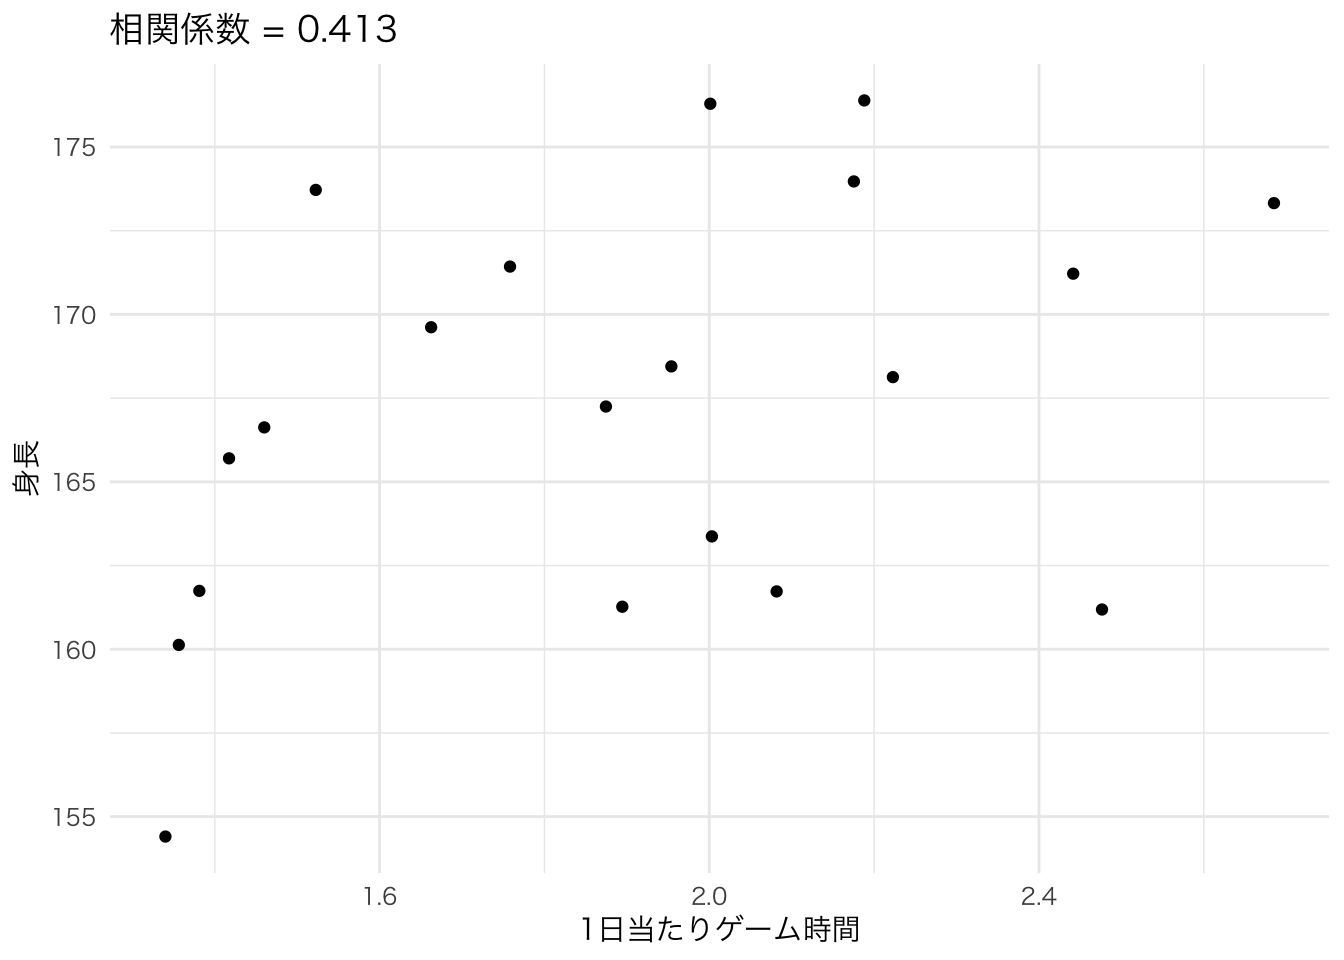
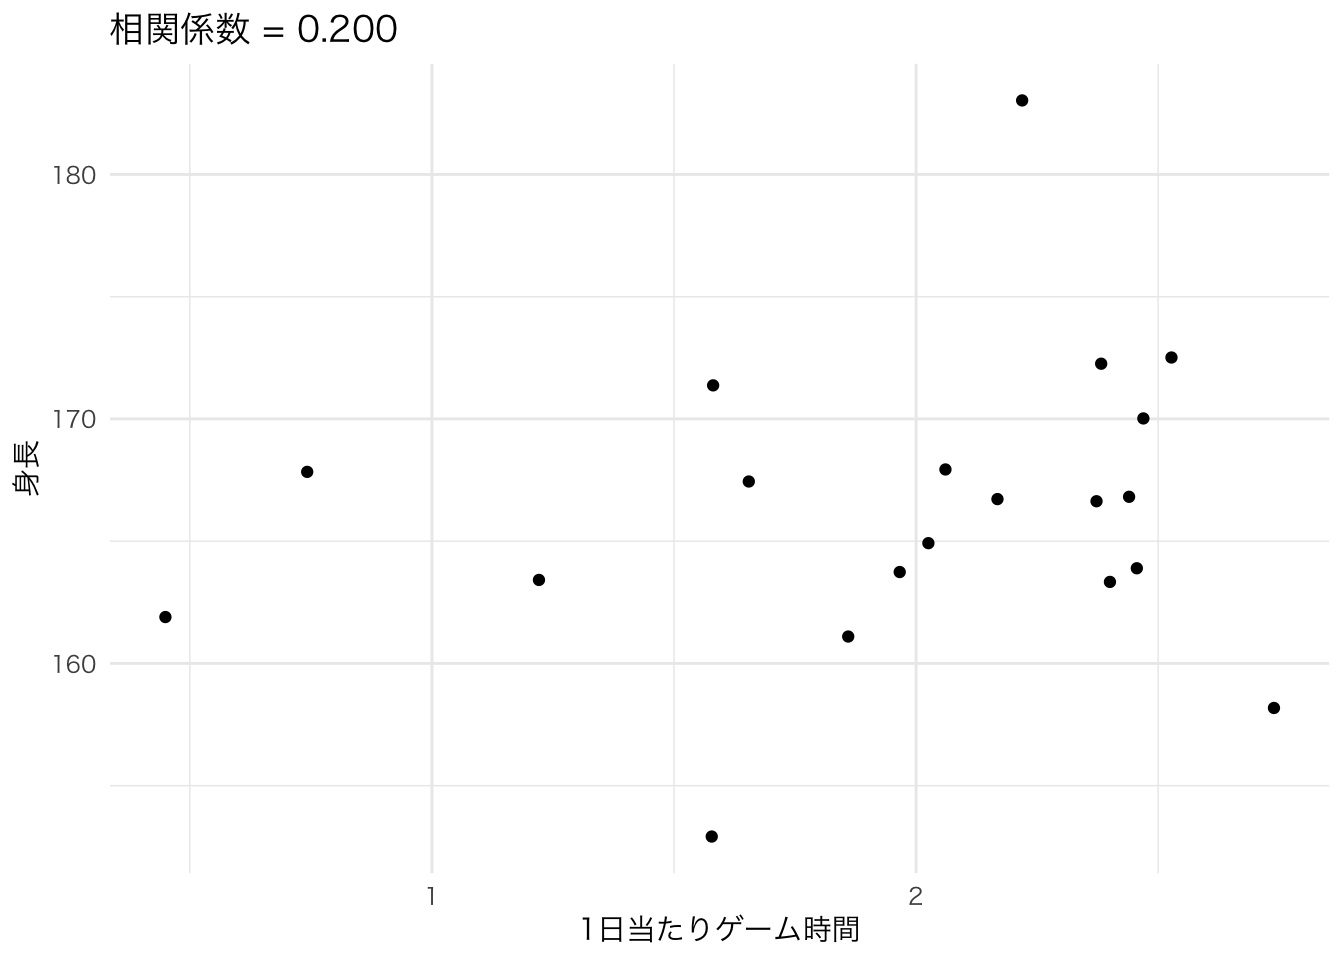
no message

diff --git a/oop.html b/oop.html
@@ -693,7 +693,7 @@ code span.wa { color: #60a0b0; font-weight: bold; font-style: italic; } /* Warni
 ##        10 character character</code></pre>
 <p>データの中身は変わっていませんが、<code>summary()</code>関数の動き方が変わりました。このように、Rで頻繁に使う<code>summary()</code>、<code>print()</code>、<code>plot()</code>などの関数は様々なクラスの対応しております。<code>lm()</code>関数を使った回帰分析の結果オブジェクトのクラス名は<code>lm</code>であり、その結果を見るためにも<code>summary()</code>関数を使います。他にも<code>plot(lmオブジェクト名)</code>をすると回帰診断の図が表示されます。これができないと、各クラスに応じた関数を作成する必要がありますね。numeric型専用の<code>numeric_print()</code>、character型専用の<code>character_print()</code>、lm型専用の<code>lm_plot()</code>など…、覚えなきゃいけない関数が増えてきます。ユーザー側でも大変ですが、コードを作成する側も大変です。実際、下の図<a href="#fn1" class="footnote-ref" id="fnref1"><sup>1</sup></a>を見ると、プログラマーにとって最も大変な仕事は「名付け」であることが分かります。</p>
 <p><img src="https://images.techhive.com/images/idge/imported/article/itw/2013/10/23/programmers_hardest_tasks-600x700-100521914-orig.jpg" style="display: block; margin: auto;" /></p>
-<p>OOPの多態性にはこのような煩わしい仕事を軽減する機能があります。OOPにはここで紹介した多態性以外にも、「<strong>継承</strong> (inheritance)」、「<strong>カプセル化</strong> (encapsulation)」のような特徴があります。他にも人によっては「メッセージパッシング (message passing)」、「動的バインディング (dynamic binding)」などの特徴を述べたりしますが、詳しい話は専門書に譲り合いと思います。また、ここではRのS3クラスについて解説しますが、S3はカプセル化に対応しておりません。したがって、ここでは以下の概念について例と一緒に解説していきたいと思います。</p>
+<p>OOPの多態性にはこのような煩わしい仕事を軽減する機能があります。OOPにはここで紹介した多態性以外にも、「<strong>継承</strong> (inheritance)」、「<strong>カプセル化</strong> (encapsulation)」のような特徴があります。他にも人によっては「メッセージパッシング (message passing)」、「動的バインディング (dynamic binding)」などの特徴を述べたりしますが、詳しい話は専門書に譲りたいと思います。また、ここではRのS3クラスについて解説しますが、S3はカプセル化に対応しておりません。したがって、ここでは以下の概念について例と一緒に解説していきたいと思います。</p>
 <ol style="list-style-type: decimal">
 <li>オブジェクト (object)</li>
 <li>クラス (class)</li>
@@ -787,7 +787,7 @@ code span.wa { color: #60a0b0; font-weight: bold; font-style: italic; } /* Warni
 <div class="sourceCode" id="cb33"><pre class="sourceCode numberSource r numberLines"><code class="sourceCode r"><span id="cb33-1"><a href="oop.html#cb33-1"></a>summary</span></code></pre></div>
 <pre><code>## function (object, ...) 
 ## UseMethod(&quot;summary&quot;)
-## &lt;bytecode: 0x7fa962431ce8&gt;
+## &lt;bytecode: 0x7f9f7857bcd0&gt;
 ## &lt;environment: namespace:base&gt;</code></pre>
 <p>しかし、多態性を持つ関数の内部を見ることはできません。そもそも<code>summary()</code>関数はクラスごとに異なるコードを持っているため、<code>summary</code>だけでは「どのクラスの<code>summary()</code>か」が分かりません。それでもRには<code>summary()</code>関数が存在し、それをジェネリック関数（generic function）と呼びます。内部には<code>UseMethod("summary")</code>のみが書かれており、これは「この<code>summary()</code>関数は様々なクラスのメソッドとして機能するぞ」と宣言しているだけです。各クラスに対応したメソッドの内部を見るには<code>getS3method("メソッド名", "クラス名")</code>を使います。<code>summary()</code>メソッドは<code>numeric</code>型が別途指定されていないため、<code>"defualt"</code>となります。</p>
 <div class="sourceCode" id="cb35"><pre class="sourceCode numberSource r numberLines"><code class="sourceCode r"><span id="cb35-1"><a href="oop.html#cb35-1"></a><span class="fu">getS3method</span>(<span class="st">&quot;summary&quot;</span>, <span class="st">&quot;default&quot;</span>)</span></code></pre></div>
@@ -842,7 +842,7 @@ code span.wa { color: #60a0b0; font-weight: bold; font-style: italic; } /* Warni
 ##     class(value) &lt;- c(&quot;summaryDefault&quot;, &quot;table&quot;)
 ##     value
 ## }
-## &lt;bytecode: 0x7fa962435178&gt;
+## &lt;bytecode: 0x7f9f7857b138&gt;
 ## &lt;environment: namespace:base&gt;</code></pre>
 <p>Rにはメソッドがクラス内部で定義されず、別途の<code>メソッド名.クラス名()</code>といった関数として作成されています。そしてジェネリック関数によって一つの関数の「ように」まとまっています。このように、ジェネリック関数経由でメソッドを呼び出すことをメソッド・ディスパッチ（method dispatch）と呼びます。</p>
 </div>
@@ -853,7 +853,7 @@ code span.wa { color: #60a0b0; font-weight: bold; font-style: italic; } /* Warni
 <span id="cb37-2"><a href="oop.html#cb37-2"></a>my_tibble <span class="ot">&lt;-</span> <span class="fu">tibble</span>(<span class="at">X =</span> <span class="dv">1</span><span class="sc">:</span><span class="dv">5</span>, <span class="at">Y =</span> <span class="dv">1</span><span class="sc">:</span><span class="dv">5</span>)</span>
 <span id="cb37-3"><a href="oop.html#cb37-3"></a><span class="fu">class</span>(my_tibble)</span></code></pre></div>
 <pre><code>## [1] &quot;tbl_df&quot;     &quot;tbl&quot;        &quot;data.frame&quot;</code></pre>
-<p>この<code>my_tibble</code>は<code>tlb_df</code>と<code>tbl</code>、<code>data.frame</code>といった3つのクラスを持っており、先に出てきたものが子クラス、後に出てくるものが親クラスです。<code>tbl</code>クラスと<code>data.frame</code>クラス両方に同じメソッドが定義されている場合、まず子クラスである<code>メソッド.tbl()</code>が実行されます。もし、子クラスにメソッドが定義されていない場合は<code>tbl</code>の親クラスである<code>data.frame</code>のメソッドが実行されます。tibbleはデータフレームとは異なるクラスのオブジェクトですが、データフレームと（ほぼ）同じ操作ができるのは、クラスが継承されるからです。クラスの継承ができないと、tibbleで使える全ての関数（列や行の抽出に使う<code>[</code>や<code>$</code>なども！）を全て一から定義する必要がありますが、継承を使うことによってこのような手間を省くことが出来ます。</p>
+<p>この<code>my_tibble</code>は<code>tlb_df</code>と<code>tbl</code>、<code>data.frame</code>といった3つのクラスを持っており、先に出てきたものが子クラス、後に出てくるものが親クラスです。<code>tbl</code>クラスと<code>data.frame</code>クラス両方に同じメソッドが定義されている場合、まず子クラスである<code>メソッド.tbl()</code>が実行されます。もし、子クラスにメソッドが定義されていない場合は<code>tbl</code>の親クラスである<code>data.frame</code>のメソッドが実行されます。tibbleはデータフレームとは異なるクラスのオブジェクトですが、データフレームと（ほぼ）同じ操作ができるのは、クラスが継承されるからです。クラスの継承ができないと、tibbleで使える全ての関数（列や行の抽出に使う<code>[</code>や<code>$</code>なども！）を全て一から定義する必要がありますが<a href="#fn3" class="footnote-ref" id="fnref3"><sup>3</sup></a>、継承を使うことによってこのような手間を省くことが出来ます。</p>
 <hr />
 </div>
 </div>
@@ -888,12 +888,12 @@ code span.wa { color: #60a0b0; font-weight: bold; font-style: italic; } /* Warni
 <span id="cb40-14"><a href="oop.html#cb40-14"></a></span>
 <span id="cb40-15"><a href="oop.html#cb40-15"></a>My_Score1 <span class="co"># My_Score1の内部を見る</span></span></code></pre></div>
 <pre><code>## $Score1
-##  [1] 54.02952 60.97109 46.01649 62.07562 61.13789 30.81348 55.72754 54.04973
-##  [9] 49.48212 38.80930
+##  [1] 51.28760 47.99261 55.92842 42.21448 42.35783 57.30760 44.91022 37.07091
+##  [9] 49.00466 42.40232
 ## 
 ## $Score2
-##  [1] 68.65344 29.04014 57.68173 60.04043 52.12027 56.80772 57.10806 41.64410
-##  [9] 53.29856 51.54230
+##  [1] 51.52752 34.81920 44.83089 55.79051 60.37444 34.64265 37.75735 64.74876
+##  [9] 40.66765 55.76629
 ## 
 ## attr(,&quot;class&quot;)
 ## [1] &quot;Score&quot;</code></pre>
@@ -913,12 +913,12 @@ code span.wa { color: #60a0b0; font-weight: bold; font-style: italic; } /* Warni
 <span id="cb44-11"><a href="oop.html#cb44-11"></a></span>
 <span id="cb44-12"><a href="oop.html#cb44-12"></a>My_Score2 <span class="co"># My_Score2の内部を見る</span></span></code></pre></div>
 <pre><code>## $Score1
-##  [1] 64.02526 40.82820 49.92667 50.61518 48.88681 52.03541 63.18942 61.65158
-##  [9] 47.83062 55.88818
+##  [1] 46.13119 56.47838 49.24237 56.10984 36.89329 63.56410 45.29585 45.56788
+##  [9] 32.15114 50.84475
 ## 
 ## $Score2
-##  [1] 55.05862 41.02223 63.72443 51.09245 47.35460 26.04985 44.20143 57.04018
-##  [9] 59.81749 56.21922
+##  [1] 43.85195 57.35256 38.51274 42.37935 43.92746 45.09571 51.91584 52.12420
+##  [9] 32.43244 69.06847
 ## 
 ## attr(,&quot;class&quot;)
 ## [1] &quot;Score&quot;</code></pre>
@@ -941,8 +941,8 @@ code span.wa { color: #60a0b0; font-weight: bold; font-style: italic; } /* Warni
 <span id="cb48-6"><a href="oop.html#cb48-6"></a><span class="fu">mean</span>(<span class="fu">c</span>(<span class="dv">1</span>, <span class="dv">3</span>, <span class="dv">5</span>, <span class="dv">7</span>, <span class="dv">9</span>, <span class="dv">11</span>)) <span class="co"># R内蔵関数のmean()を使う</span></span></code></pre></div>
 <pre><code>## [1] 6</code></pre>
 <div class="sourceCode" id="cb50"><pre class="sourceCode numberSource r numberLines"><code class="sourceCode r"><span id="cb50-1"><a href="oop.html#cb50-1"></a><span class="fu">mean</span>(My_Score1) <span class="co"># Scoreクラスのメソッドであるmean()を使う</span></span></code></pre></div>
-<pre><code>## [1] 51.31128
-## [1] 52.79368</code></pre>
+<pre><code>## [1] 47.04766
+## [1] 48.09253</code></pre>
 <p><code>mean(c(1, 3, 5, 7, 9, 11))</code>は引数がnumeric型ベクトルであるため、既存の<code>mean()</code>関数が使用されます。一方、<code>mean(My_Score1)</code>は引数がScoreクラスであるため、<code>mean.Score()</code>が使用されます。このように<code>mean_Score()</code>のような別途の関数を作る必要なく、既存の関数名が利用できます。実際、<code>methods(mean)</code>を実行すると、Scoreクラスのメソッドとして<code>mean()</code>関数が用意されたことを確認できます。</p>
 <div class="sourceCode" id="cb52"><pre class="sourceCode numberSource r numberLines"><code class="sourceCode r"><span id="cb52-1"><a href="oop.html#cb52-1"></a><span class="fu">methods</span>(mean)</span></code></pre></div>
 <pre><code>## [1] mean.Date        mean.default     mean.difftime    mean.POSIXct    
@@ -994,8 +994,8 @@ code span.wa { color: #60a0b0; font-weight: bold; font-style: italic; } /* Warni
 ## see &#39;?methods&#39; for accessing help and source code</code></pre>
 <p><code>my_func()</code>関数はScoreとCatといった2種類のクラスで使われることが確認できます。それでは問題なく作動するかを確認してみましょう。<code>My_Score1</code>と<code>My_Cat</code>を、それぞれ<code>my_func()</code>に渡します。</p>
 <div class="sourceCode" id="cb64"><pre class="sourceCode numberSource r numberLines"><code class="sourceCode r"><span id="cb64-1"><a href="oop.html#cb64-1"></a><span class="fu">my_func</span>(My_Score1)</span></code></pre></div>
-<pre><code>## [1] 51.31128
-## [1] 52.79368</code></pre>
+<pre><code>## [1] 47.04766
+## [1] 48.09253</code></pre>
 <div class="sourceCode" id="cb66"><pre class="sourceCode numberSource r numberLines"><code class="sourceCode r"><span id="cb66-1"><a href="oop.html#cb66-1"></a><span class="fu">my_func</span>(My_Cat)</span></code></pre></div>
 <pre><code>## [1] &quot;矢内: にゃーにゃー&quot;</code></pre>
 <p>同じ関数名でも、オブジェクトのクラスによって異なる処理が行われることが分かります。</p>
@@ -1064,24 +1064,24 @@ code span.wa { color: #60a0b0; font-weight: bold; font-style: italic; } /* Warni
 <div class="sourceCode" id="cb80"><pre class="sourceCode numberSource r numberLines"><code class="sourceCode r"><span id="cb80-1"><a href="oop.html#cb80-1"></a><span class="fu">str</span>(Cor_Obj)</span></code></pre></div>
 <pre><code>## List of 4
 ##  $ data    :&#39;data.frame&#39;:    20 obs. of  2 variables:
-##   ..$ x: num [1:20] 2.19 1.42 1.89 1.52 1.66 ...
-##   ..$ y: num [1:20] 176 166 161 174 170 ...
+##   ..$ x: num [1:20] 2.03 2.06 2.17 2.37 1.22 ...
+##   ..$ y: num [1:20] 165 168 167 167 163 ...
 ##  $ var_name: chr [1:2] &quot;1日当たりゲーム時間&quot; &quot;身長&quot;
-##  $ cor     : Named num 0.413
+##  $ cor     : Named num 0.2
 ##   ..- attr(*, &quot;names&quot;)= chr &quot;cor&quot;
-##  $ cor_ci  : num [1:2] -0.0363 0.7233
+##  $ cor_ci  : num [1:2] -0.266 0.59
 ##   ..- attr(*, &quot;conf.level&quot;)= num 0.95
 ##  - attr(*, &quot;class&quot;)= chr &quot;My_Cor_Object&quot;</code></pre>
 <p><code>Cor_Obj</code>には元のデータがデータフレームとして格納され（<code>$data</code>）、それぞれの変数名（<code>$var_name</code>）、相関係数（<code>$cor</code>）、相関係数の95%信頼区間（<code>$cor_ci</code>）が<code>Cor_Obj</code>の中に入っています。本質的にはリスト型のデータ構造ですが、クラス名が<code>My_Cor_Object</code>になっているだけです。</p>
 <p>この<code>My_Cor_Object</code>クラスには3つのメソッド（専用関数）が用意されており、<code>print()</code>、<code>summary()</code>、<code>plot()</code>です。<code>print()</code>と<code>summary()</code>は同じ関数で、<code>x</code>と<code>y</code>の平均値、そして相関係数と信頼区間を出力します。<code>plot()</code>は散布図と相関係数を出力します。実際の例を見てみましょう。</p>
 <div class="sourceCode" id="cb82"><pre class="sourceCode numberSource r numberLines"><code class="sourceCode r"><span id="cb82-1"><a href="oop.html#cb82-1"></a><span class="fu">print</span>(Cor_Obj)</span></code></pre></div>
-<pre><code>## 1日当たりゲーム時間の平均値: 1.895
-## 身長の平均値: 167.297
-## 相関係数: 0.413 [-0.036, 0.723]</code></pre>
+<pre><code>## 1日当たりゲーム時間の平均値: 1.966
+## 身長の平均値: 166.298
+## 相関係数: 0.200 [-0.266, 0.590]</code></pre>
 <div class="sourceCode" id="cb84"><pre class="sourceCode numberSource r numberLines"><code class="sourceCode r"><span id="cb84-1"><a href="oop.html#cb84-1"></a><span class="fu">summary</span>(Cor_Obj) <span class="co"># summary()はprint()と同じ</span></span></code></pre></div>
-<pre><code>## 1日当たりゲーム時間の平均値: 1.895
-## 身長の平均値: 167.297
-## 相関係数: 0.413 [-0.036, 0.723]</code></pre>
+<pre><code>## 1日当たりゲーム時間の平均値: 1.966
+## 身長の平均値: 166.298
+## 相関係数: 0.200 [-0.266, 0.590]</code></pre>
 <div class="sourceCode" id="cb86"><pre class="sourceCode numberSource r numberLines"><code class="sourceCode r"><span id="cb86-1"><a href="oop.html#cb86-1"></a><span class="fu">plot</span>(Cor_Obj)</span></code></pre></div>
 <p><img src="R_Not_for_Everyone_files/figure-html/My_Cor_Object_Exam1-1.png" width="672" style="display: block; margin: auto;" /></p>
 <p>既存の<code>cor.test()</code>で作成される<code>"htest"</code>クラスに比べ、<code>"My_Cor_Object"</code>クラスは各変数の平均値が名前と一緒に表示され、<code>plot()</code>で簡単に散布図が作成できる大変便利なクラスです。このMy_Cor_Objectクラスとそのメソッドの構造を図示したものが以下の図です。</p>
@@ -1179,6 +1179,7 @@ code span.wa { color: #60a0b0; font-weight: bold; font-style: italic; } /* Warni
 <ol start="1">
 <li id="fn1"><p>図の出典は<a href="https://www.itworld.com/article/2833265/don-t-go-into-programming-if-you-don-t-have-a-good-thesaurus.html">IT WORLD</a>です (アクセス: 2020-05-21)。<a href="oop.html#fnref1" class="footnote-back">↩</a></p></li>
 <li id="fn2"><p>逆に特定のクラスで使用可能なメソッドを確認するときは<code>methods(class = "クラス名")</code>を入力します。<a href="oop.html#fnref2" class="footnote-back">↩</a></p></li>
+<li id="fn3"><p>ただし、実際の場合、<code>[</code>や<code>[&lt;-</code>などは<code>tbl</code>または<code>tbl_df</code>用のメソッドが別途用意されています。<code>data.frame</code>クラスから継承されているメソッドとしては<code>dim()</code>や<code>t()</code>などがあります。<a href="oop.html#fnref3" class="footnote-back">↩</a></p></li>
 </ol>
 </div>
             </section>
